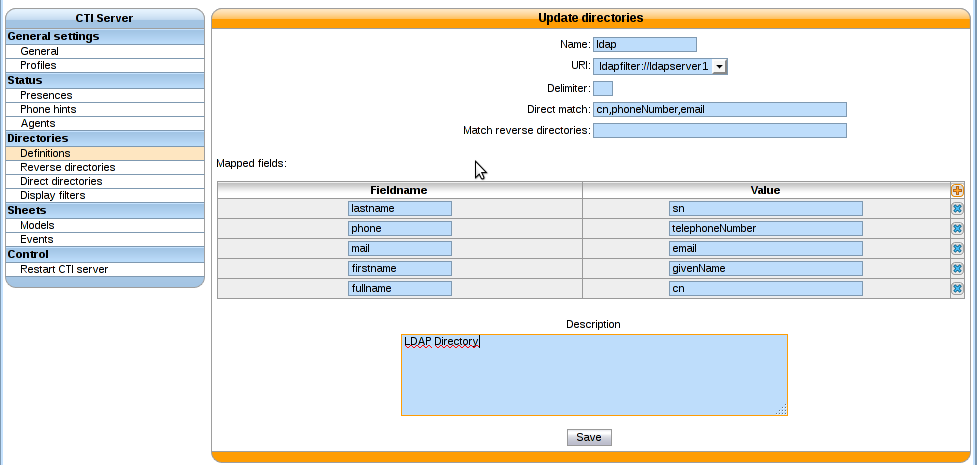
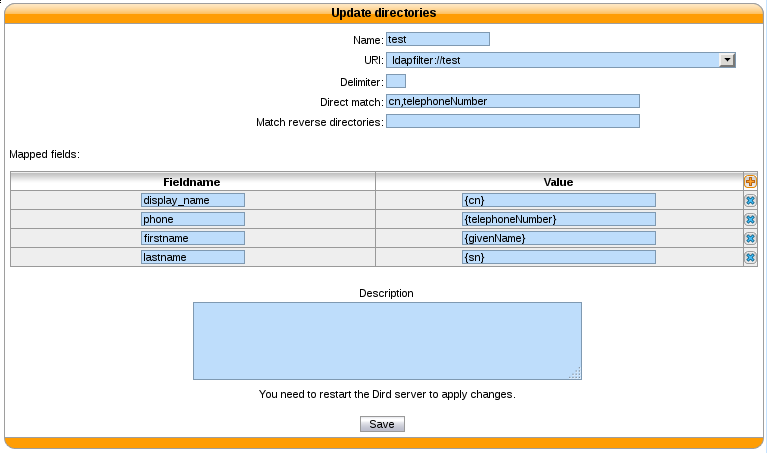
update LDAP page
To reflect the change in XiVO.

diff --git a/source/administration/advanced_configuration/ldap/ldap.rst b/source/administration/advanced_configuration/ldap/ldap.rst
@@ -4,9 +4,8 @@
 LDAP
 ****
 
-XiVO offers the possibility to integrate LDAP servers. Once configured properly,
-you'll be able to search your LDAP servers directly from your phones (if they
-support this feature).
+XiVO offers the possibility to integrate LDAP servers. Once configured properly, you'll be able to
+search your LDAP servers from your XiVO client and from your phones (if they support this feature).
 
 .. note:: This page describes how to add LDAP servers as sources of contacts. For other sources of
           contacts, see :ref:`directories`.
@@ -67,9 +66,6 @@ Add a LDAP Filter
 Next thing to do after adding a LDAP server is to create a LDAP filter via the
 :menuselection:`Services --> IPBX configuration --> LDAP Filters` page.
 
-LDAP filters define the information that will be searched and displayed when you do a
-directory search.
-
 You can add a LDAP filter by clicking on the add button at the top right of the page.
 You'll then be shown this page:
 
@@ -85,20 +81,6 @@ Enter the following information:
 * Password: the password of the given user
 * Base DN: the base ``dn`` of search requests
 * Filter: if specified, :ref:`it replace the default filter <custom-filter>`
-* Phone number type: this string is appended next to each result display name
-
-You'll also probably need to modify some values in the :guilabel:`Attributes` tab:
-
-.. figure:: images/ldap_addfilter2.png
-
-   Adding a LDAP Filter
-
-In the :guilabel:`Display name` section, add and order the attributes that are going be used
-to display the results. The first attribute will be used for each result which have this
-attribute, else the second will be used, etc.
-
-The :guilabel:`Phone number` section is similar, but is used for the phone number in the
-results.
 
 
 .. _custom-filter:
@@ -108,9 +90,6 @@ Use a Custom Filter
 
 In some cases, you might have to use a custom filter for your search requests instead
 of the default filter.
-
-By default, the search tries to match any attribute you choose in the :guilabel:`Attributes`
-tab.
 
 In custom filters, occurrence of the pattern ``%Q`` is replaced by what the user entered
 on its phone.
@@ -122,65 +101,22 @@ Here's some examples of custom filters:
 * ``|(cn=*%Q*)(displayName=*%Q*)``
 
 
-Add a LDAP filter to the Phonebook
-==================================
+Add a Directory Definition
+==========================
 
-In the :menuselection:`Services --> General settings --> Phonebook` page, click
-on the :guilabel:`LDAP filters` page and add your filter to the list of enabled
-filters.
+The next step is to add a directory defintion for the LDAP filter you just created. See the
+:ref:`directories <directory-definition>` section for more information.
 
-Please refer to the :ref:`remote-directory` section in order to properly configure a remote directory.
-
-You'll then be able to search your LDAP server directly from your phone and dial
-from the displayed results.
-
-
-Use with CTI Server and Client XiVO
-===================================
-
-Add a LDAP Directory Filter to the CTI Server
----------------------------------------------
-
-In the :menuselection:`Services --> CTI Server --> Directories --> Definitions` page,
-click on the add button
+Here's an example of an LDAP directory definition:
 
 .. figure:: images/ctiserver_add_ldap_directory_filter.png
 
-   Adding a directory LDAP Filter to CTI Server
-
-* ``Direct match`` searched fields used in the filter
-* ``Match reverse directory`` use to search into this field for the reverse directory
-* ``Fieldname/value`` match to the CTI field> server> | field> LDAP> server.
-
-If a a custom filter is defined in the LDAP filter configuration, the fields in `direct
-match` will be added to that filter using an `&`. To only use the
-`filter` field of your LDAP filter configuration, do not add any
-`direct match` fields in your directory definition.
+If a custom filter is defined in the LDAP filter configuration, the fields in `direct match` will be
+added to that filter using an `&`. To only use the `filter` field of your LDAP filter configuration,
+do not add any `direct match` fields in your directory definition.
 
 Example:
 
 * Given an LDAP filter with `filter` ``st=Canada``
-* Given a directory definition using the previously configured ldap filter with a
-  `direct match` ``cn,o``
+* Given a directory definition with a `direct match` ``cn,o``
 * Then the resulting filter when doing a search will be ``&(st=Canada)(|(cn=*%Q*)(o=*%Q*))``
-
-
-Add a LDAP Directory to the CTI Server
---------------------------------------
-
-In the :menuselection:`Services --> CTI Server --> Directories --> Direct directories` page,
-click on the edit button for ``default`` directory
-
-To use this directory, you must then add to the list of searchable directories.
-
-.. figure:: images/ctiserver_add_ldap_directories.png
-
-   Adding a directory LDAP to CTI Server
-
-
-.. warning:: The CTI server settings resonates in contexts. This means creating a context for each 
-   CTI context of membership of your users who will examine the "Directories".
-
-* eg: CTI Context ``default`` for users in context ``default``
-
-Restart CTI Server

diff --git a/source/administration/directories/directories.rst b/source/administration/directories/directories.rst
@@ -41,6 +41,8 @@ page.
 * :guilabel:`Description`: (optional) a description of the directory
 
 
+.. _directory-definition:
+
 Configuring source access
 =========================
 
